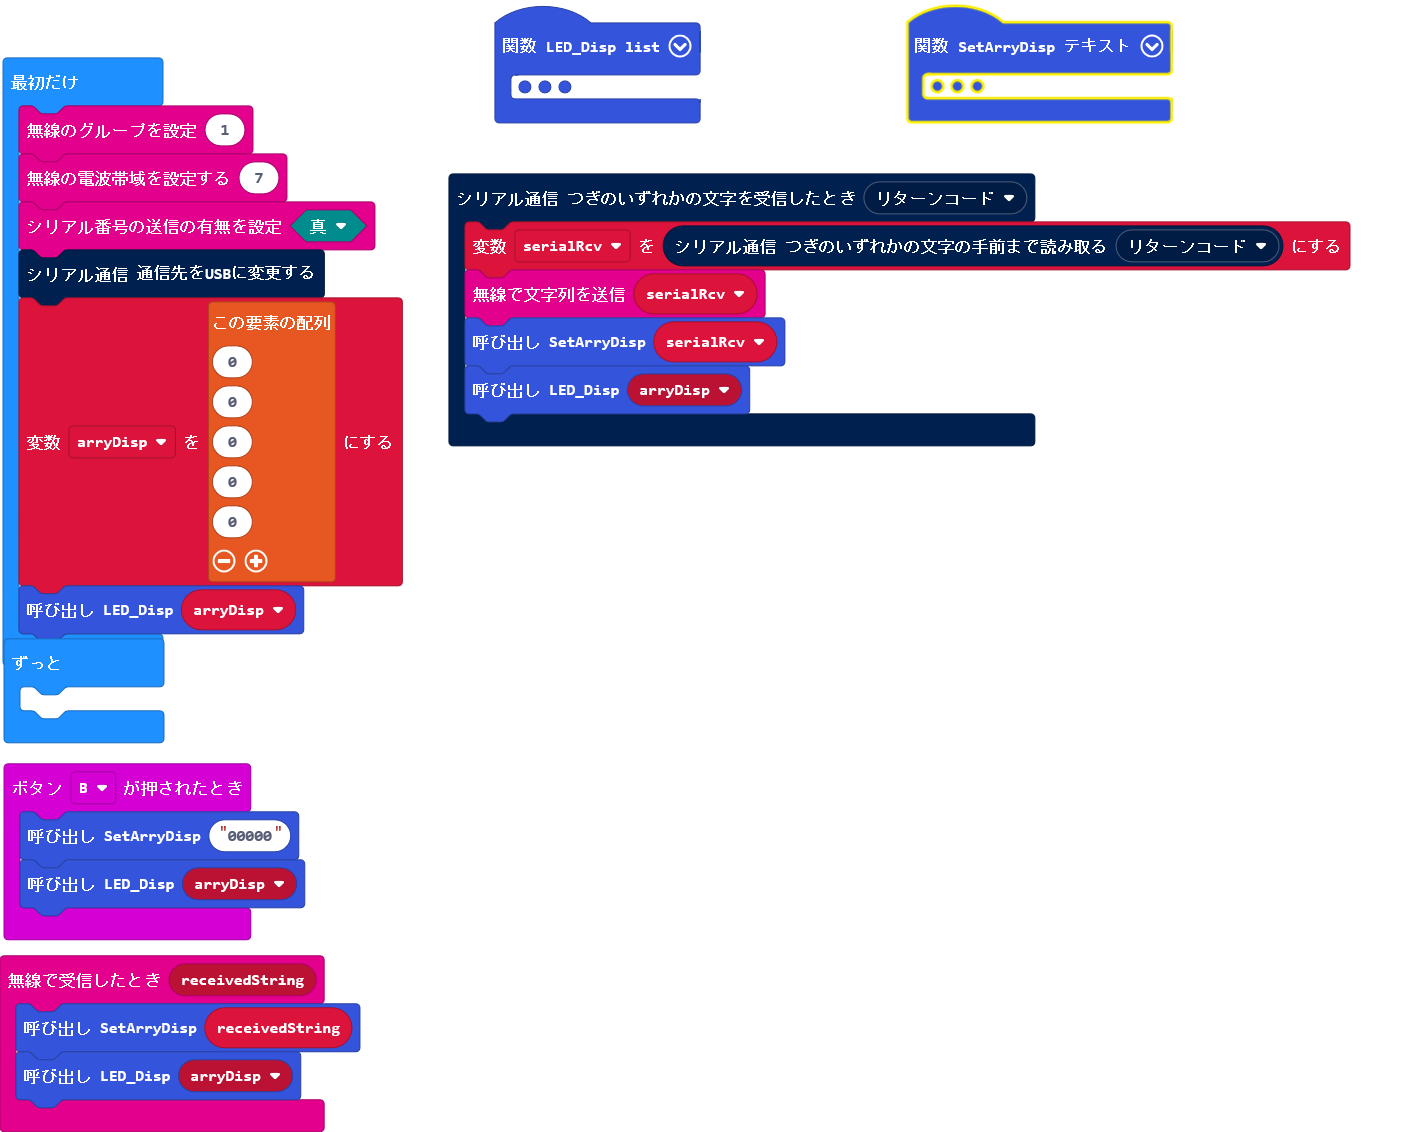
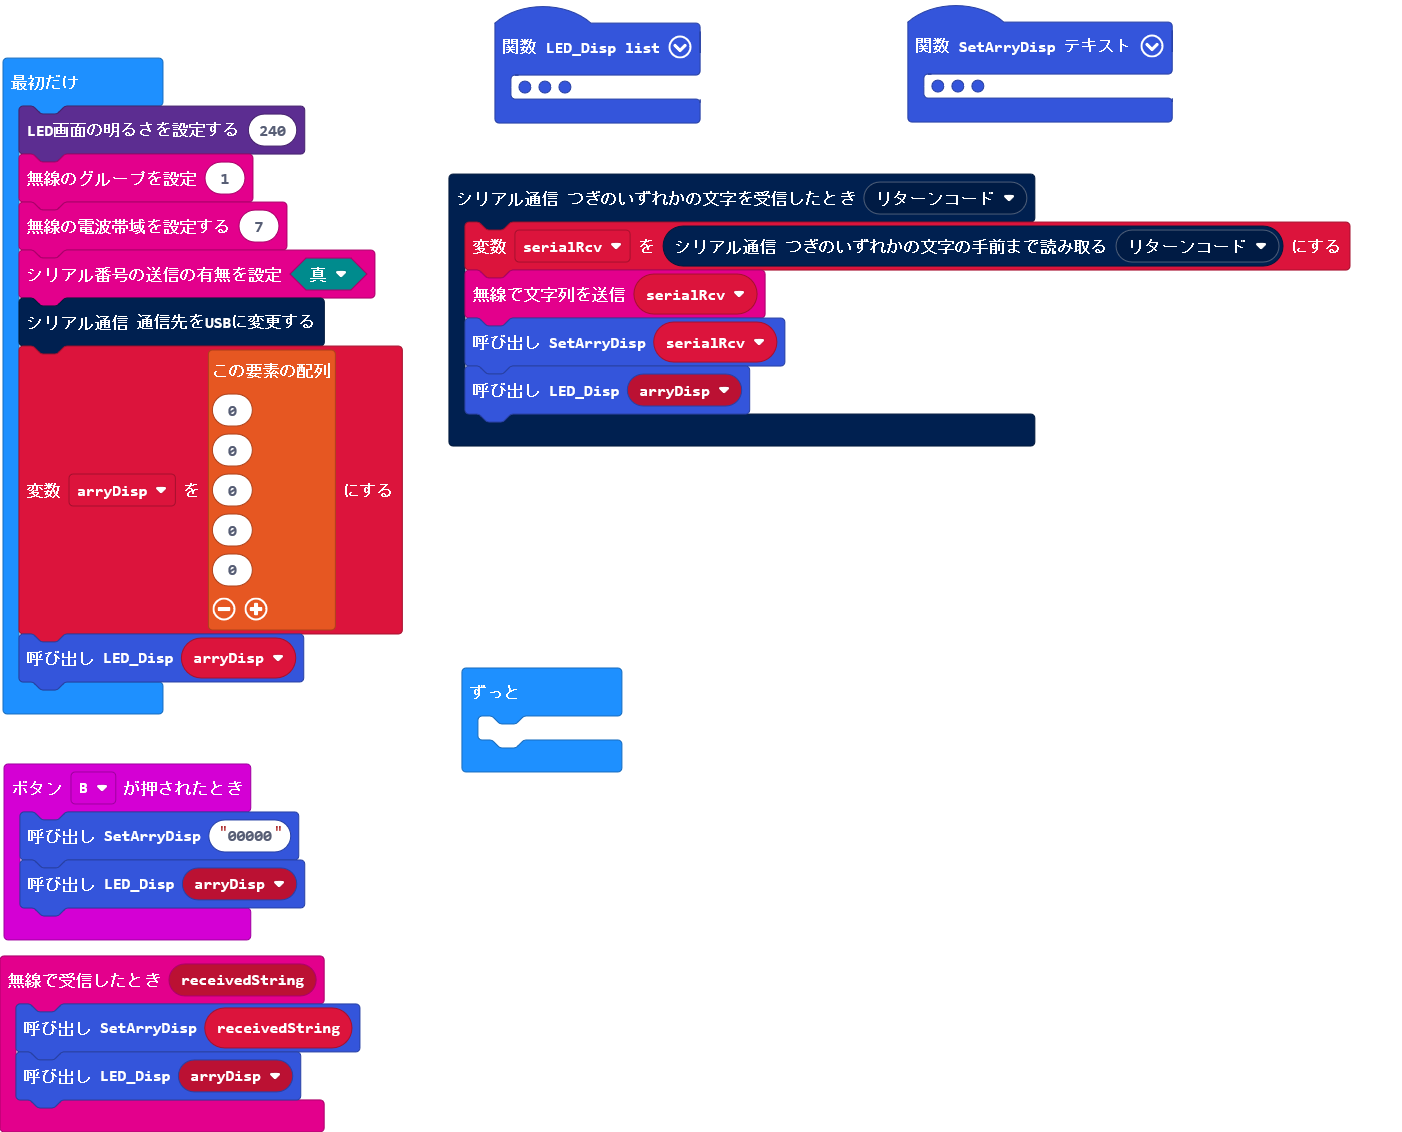
LEDの明るさ変更

diff --git a/main.ts b/main.ts
@@ -103,6 +103,7 @@ let b: any = null
 let val = 0
 let m = ""
 let arryDisp: number[] = []
+led.setBrightness(240)
 radio.setGroup(1)
 radio.setFrequencyBand(7)
 radio.setTransmitSerialNumber(true)
